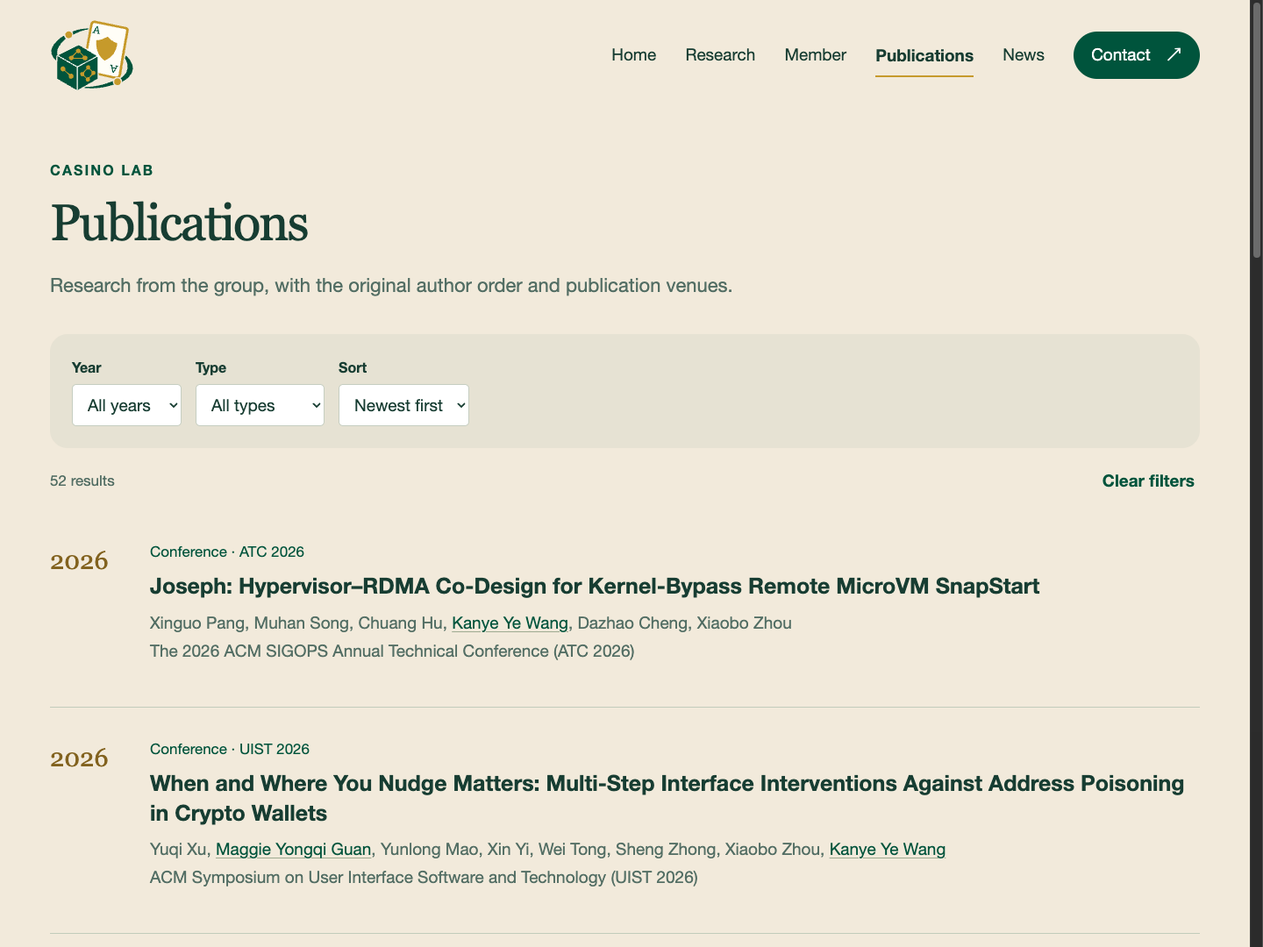
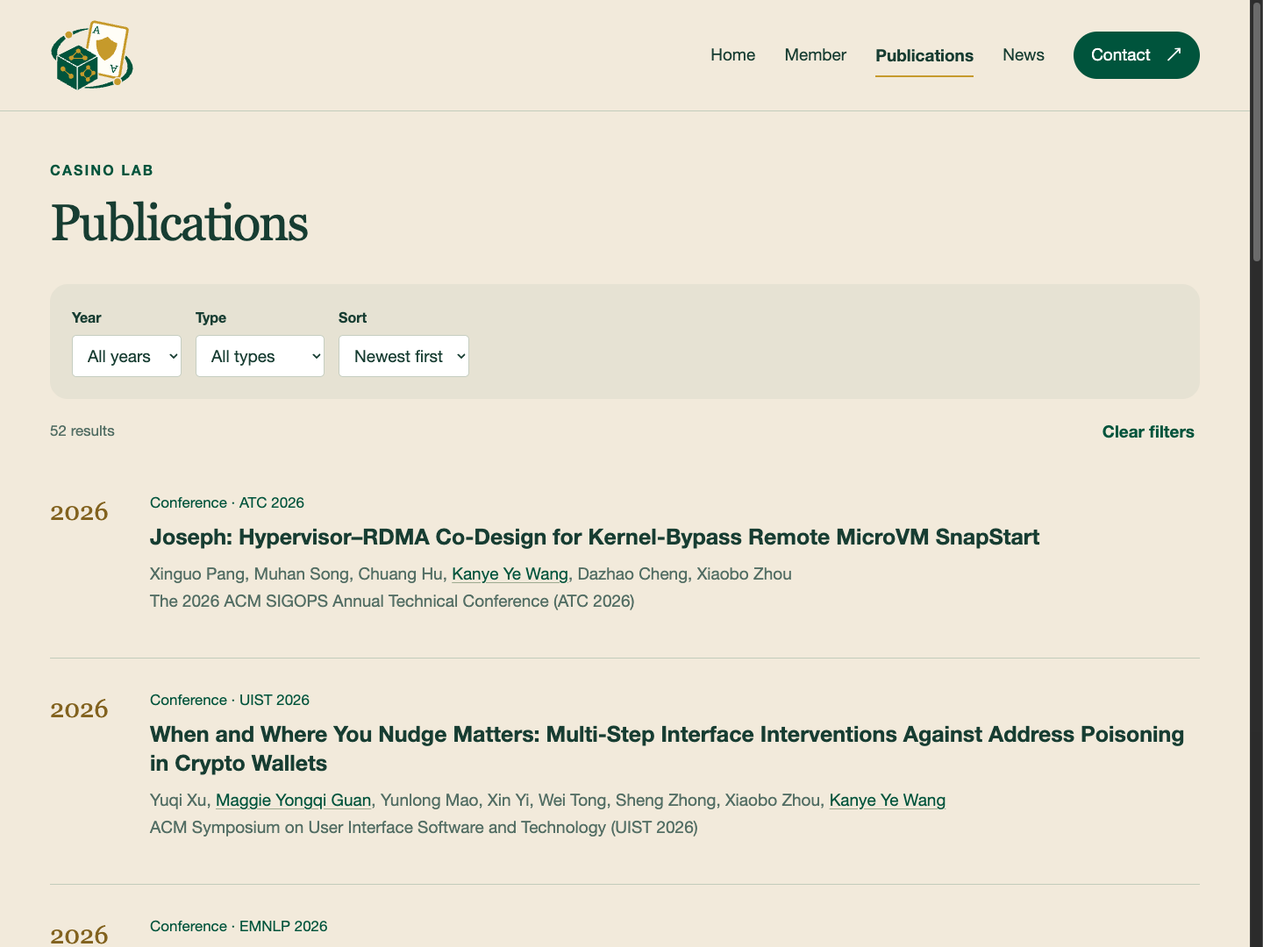
Update Site source

diff --git a/dist/lab.js b/dist/lab.js
@@ -45,8 +45,11 @@ function photo(id=data.siteSettings.heroPhotoAssetIds[0]) {
   if (!asset(id)) return '';
   return `<figure><button class="photo-button" data-photo="${esc(id)}" aria-label="View full group photo">${image(id,'group-photo',true)}</button><figcaption class="photo-caption"><span>${esc(asset(id).caption || 'Our group')}</span><button data-photo="${esc(id)}">View full photo ↗</button></figcaption></figure>`;
 }
-const researchCard = (t,i) => `<a class="research-card" href="#research/${encodeURIComponent(t.id)}"><span class="number">0${i+1}</span><h3>${esc(t.title)}</h3><p>${esc(t.summary)}</p><span class="text-link">Explore this area ↗</span></a>`;
-const authors = paper => paper.authors.map(a => a.personId && data.people.some(p=>p.id===a.personId) ? `<a class="author-link" href="#member/${encodeURIComponent(a.personId)}">${esc(a.name)}</a>` : esc(a.name)).join(', ');
+function memberLink(person, name=person.name, cls='') {
+  const url=person.id==='pi'?safeUrl(person.links[0]?.url):`#member/${encodeURIComponent(person.id)}`;
+  return url?`<a class="${cls}" href="${esc(url)}" ${url.startsWith('#')?'':'target="_blank" rel="noopener"'}>${esc(name)}</a>`:esc(name);
+}
+const authors = paper => paper.authors.map(a => {const person=data.people.find(p=>p.id===a.personId);return person?memberLink(person,a.name,'author-link'):esc(a.name);}).join(', ');
 function paperActions(p) {
   const pdf=safeUrl(p.pdfUrl || asset(p.pdfAssetId)?.url,true);
   return [p.abstract?`<button data-abstract="${esc(p.id)}">Abstract</button>`:'',p.bibtex?`<button data-citation="${esc(p.id)}">Cite / BibTeX</button>`:'',pdf?`<a href="${esc(pdf)}" target="_blank" rel="noopener">PDF ↗</a>`:'',p.doi?link('https://doi.org/'+encodeURIComponent(p.doi),'DOI'):'',link(p.projectUrl,'Project'),link(p.codeUrl,'Code'),link(p.videoUrl,'Video')].join('');
@@ -56,21 +59,14 @@ const newsRow = n => `<article class="news-row"><span class="news-date">${esc(n.
 
 function home() {
   const s=data.siteSettings;
+  const pi=data.people.find(p=>p.id==='pi');
+  const about=prose(s.aboutMarkdown || s.introduction).replace(/Kanye Ye Wang/gi,name=>pi?memberLink(pi,name):name);
   const selected=s.featuredPublicationIds.map(id=>data.publications.find(p=>p.id===id)).filter(Boolean);
   const latest=(selected.length?selected:[...data.publications].sort((a,b)=>b.year-a.year)).slice(0,3);
-  content.innerHTML=`<section class="hm-hero"><div class="hm-copy"><p class="eyebrow">${esc(s.institution)} · Research group</p><h1 class="hero-wordmark">${image(s.wordmarkAssetId,'wordmark',true)}<span class="sr-only">${esc(s.name)}</span></h1><h2 class="lab-full-name">${fullName(s.fullName)}</h2><p class="hm-summary">${esc(s.introduction)}</p><div class="hm-actions"><a href="#research">Explore our research</a><a href="#member">Meet the group ↗</a></div></div><div id="home-gallery" class="hm-gallery">${photoStack()}</div></section>
-    <section class="hm-about"><div><p class="eyebrow">ABOUT THE LAB</p><h2>Research at<br>${esc(s.institution)}</h2></div><div class="about-text">${prose(s.aboutMarkdown || s.introduction)}</div></section>
-    <section class="hm-research"><header class="hm-section-heading"><p class="eyebrow">WHAT WE WORK ON</p><h2>Research areas</h2></header><div class="hm-card-grid">${data.researchAreas.map((t,i)=>`<article class="hm-card ${i%2?'card-gold':'card-green'}"><span>0${i+1}</span><h3>${esc(t.title)}</h3><p>${esc(t.summary)}</p><a href="#research/${encodeURIComponent(t.id)}">Explore ↗</a></article>`).join('')}<article class="hm-card card-cream"><span>0${data.researchAreas.length+1}</span><h3>Work with us</h3><p>PhD study, research assistantships, and interdisciplinary collaboration.</p><a href="#contact">Opportunities ↗</a></article></div></section>
-    <section class="hm-stories"><div class="hm-stories-title"><p class="eyebrow">FROM THE LAB</p><h2>Recent publications</h2><a class="text-link" href="#publications">View all ${data.publications.length} publications ↗</a></div><div class="hm-story-list">${latest.map(p=>`<article><small>${p.year} · ${esc(p.venue.shortName || label(p.type))}</small><h3>${paperLink(p)}</h3></article>`).join('')}</div></section>
+  content.innerHTML=`<section class="hm-hero"><div class="hm-copy"><p class="eyebrow">${esc(s.institution)} · Research group</p><h1 class="hero-wordmark">${image(s.wordmarkAssetId,'wordmark',true)}<span class="sr-only">${esc(s.name)}</span></h1><h2 class="lab-full-name">${fullName(s.fullName)}</h2><p class="hm-summary">${esc(s.introduction)}</p><div class="hm-actions"><a href="#publications">Our publications</a><a href="#member">Meet the group ↗</a></div></div><div id="home-gallery" class="hm-gallery">${photoStack()}</div></section>
+    <section class="hm-about"><div><p class="eyebrow">ABOUT THE LAB</p><h2>Research at<br>${esc(s.institution)}</h2></div><div class="about-text">${about}</div></section>
+    <section class="hm-stories"><header class="hm-stories-title"><p class="eyebrow">FROM THE LAB</p><h2>Recent publications</h2></header><div class="hm-story-list">${latest.map(p=>`<article><small>${p.year} · ${esc(p.venue.shortName || label(p.type))}</small><h3>${paperLink(p)}</h3></article>`).join('')}</div><a class="text-link" href="#publications">View all ${data.publications.length} publications ↗</a></section>
     <section class="hm-join-section"><h2>Contact</h2><p>Get in touch about our research, collaboration, and opportunities.</p><a class="button" href="#contact">Contact the lab ↗</a></section>`;
-}
-
-function research(id) {
-  const t=data.researchAreas.find(t=>t.id===id || t.slug===id);
-  if(id&&!t)return notFound();
-  if(!t){content.innerHTML=heading('Research','Information security, human–computer interaction, and interdisciplinary collaboration.')+`<div class="research-grid bottom-space">${data.researchAreas.map(researchCard).join('')}</div>`;return;}
-  const related=data.publications.filter(p=>p.researchAreaIds.includes(t.id));
-  content.innerHTML=`<a class="breadcrumb" href="#research">← Research areas</a>${heading(t.title,t.summary,'RESEARCH')}<div class="topic-layout"><section><div class="prose">${prose(t.bodyMarkdown)}</div>${t.questions.length?`<h2>Research questions</h2><ul>${t.questions.map(q=>`<li>${esc(q)}</li>`).join('')}</ul>`:''}<div class="tag-row">${t.tags.map(tag=>`<span class="tag">${esc(tag)}</span>`).join('')}</div></section><aside><h2>Explore our work</h2><p>Read the group’s publications and meet our researchers.</p><a class="button secondary" href="#publications${related.length?'?topic='+encodeURIComponent(t.id):''}">${related.length?'Related publications':'Publication archive'} ↗</a><p><a class="text-link" href="#member?area=${encodeURIComponent(t.id)}">Meet the researchers ↗</a></p></aside></div>`;
 }
 
 function people(id, params) {
@@ -81,12 +77,12 @@ function people(id, params) {
   }
   const area=params.get('area')||'';
   const roles=[...new Set(data.people.flatMap(p=>p.memberships.filter(m=>m.isCurrent).map(m=>m.role)))];
-  content.innerHTML=heading('Member','Meet the researchers behind CASINO.')+`<div class="chips" id="people-chips" aria-label="Filter members"><button class="chip" data-role="all" aria-pressed="true">All</button>${roles.map(r=>`<button class="chip" data-role="${r}" aria-pressed="false">${esc(label(r))}</button>`).join('')}<button class="chip" data-role="alumni" aria-pressed="false">Alumni</button></div>${area?`<p class="source-note">Research area: ${esc(data.researchAreas.find(a=>a.id===area)?.title||area)} · <a href="#member">Show everyone</a></p>`:''}<p class="results-line" id="people-count" aria-live="polite"></p><div class="people-grid" id="people-results"></div>`;
+  content.innerHTML=heading('Member')+`<div class="chips" id="people-chips" aria-label="Filter members"><button class="chip" data-role="all" aria-pressed="true">All</button>${roles.map(r=>`<button class="chip" data-role="${r}" aria-pressed="false">${esc(label(r))}</button>`).join('')}<button class="chip" data-role="alumni" aria-pressed="false">Alumni</button></div>${area?`<p class="source-note">Research area: ${esc(data.researchAreas.find(a=>a.id===area)?.title||area)} · <a href="#member">Show everyone</a></p>`:''}<p class="results-line" id="people-count" aria-live="polite"></p><div class="people-grid" id="people-results"></div>`;
   let role='all';
   const update=()=>{
     const visible=data.people.filter(p=>(!area||p.researchAreaIds.includes(area))&&(role==='all'||(role==='alumni'?!isCurrent(p):p.memberships.some(m=>m.role===role&&m.isCurrent))));
     document.querySelector('#people-count').textContent=`${visible.length} members`;
-    document.querySelector('#people-results').innerHTML=visible.length?visible.map(p=>`<article class="person"><div class="avatar">${image(p.portraitAssetId)}</div><span class="news-type">${esc(isCurrent(p)?p.title:'Alumni')}</span><h3><a href="#member/${encodeURIComponent(p.id)}">${esc(p.name)}</a></h3></article>`).join(''):'<div class="empty"><h3>No members in this category</h3></div>';
+    document.querySelector('#people-results').innerHTML=visible.length?visible.map(p=>`<article class="person"><div class="avatar">${image(p.portraitAssetId)}</div><span class="news-type">${esc(isCurrent(p)?p.title:'Alumni')}</span><h3>${memberLink(p)}</h3></article>`).join(''):'<div class="empty"><h3>No members in this category</h3></div>';
   };
   document.querySelector('#people-chips').addEventListener('click',e=>{const b=e.target.closest('[data-role]');if(!b)return;role=b.dataset.role;document.querySelectorAll('[data-role]').forEach(c=>c.setAttribute('aria-pressed',String(c===b)));update();});update();
 }
@@ -100,7 +96,7 @@ function publications(id, params) {
   const types=[...new Set(data.publications.map(p=>p.type))];
   const taggedAreas=data.researchAreas.filter(t=>data.publications.some(p=>p.researchAreaIds.includes(t.id)));
   let topic=params.get('topic')||'',personId=params.get('personId')||'',page=1;
-  content.innerHTML=heading('Publications','Research from the group, with the original author order and publication venues.')+`<div class="toolbar"><label class="field">Year<select id="paper-year"><option value="">All years</option>${years.map(y=>`<option>${y}</option>`).join('')}</select></label><label class="field">Type<select id="paper-type"><option value="">All types</option>${types.map(t=>`<option value="${t}">${esc(label(t))}</option>`).join('')}</select></label><label class="field">Sort<select id="paper-sort"><option value="new">Newest first</option><option value="old">Oldest first</option></select></label></div>${taggedAreas.length?`<div class="chips" id="paper-topics"><button class="chip" data-topic="" aria-pressed="true">All areas</button>${taggedAreas.map(t=>`<button class="chip" data-topic="${esc(t.id)}" aria-pressed="false">${esc(t.title)}</button>`).join('')}</div>`:''}<div class="results-line"><span id="paper-count" aria-live="polite"></span><button class="text-link" id="clear-filters">Clear filters</button></div><div id="paper-results"></div><div class="pagination" id="pagination"></div>${data.siteSettings.publicationArchiveUrl?`<p class="source-note">Before 2023: ${link(data.siteSettings.publicationArchiveUrl,'Earlier publication archive')}</p>`:''}`;
+  content.innerHTML=heading('Publications')+`<div class="toolbar"><label class="field">Year<select id="paper-year"><option value="">All years</option>${years.map(y=>`<option>${y}</option>`).join('')}</select></label><label class="field">Type<select id="paper-type"><option value="">All types</option>${types.map(t=>`<option value="${t}">${esc(label(t))}</option>`).join('')}</select></label><label class="field">Sort<select id="paper-sort"><option value="new">Newest first</option><option value="old">Oldest first</option></select></label></div>${taggedAreas.length?`<div class="chips" id="paper-topics"><button class="chip" data-topic="" aria-pressed="true">All areas</button>${taggedAreas.map(t=>`<button class="chip" data-topic="${esc(t.id)}" aria-pressed="false">${esc(t.title)}</button>`).join('')}</div>`:''}<div class="results-line"><span id="paper-count" aria-live="polite"></span><button class="text-link" id="clear-filters">Clear filters</button></div><div id="paper-results"></div><div class="pagination" id="pagination"></div>${data.siteSettings.publicationArchiveUrl?`<p class="source-note">Before 2023: ${link(data.siteSettings.publicationArchiveUrl,'Earlier publication archive')}</p>`:''}`;
   for(const [param,field] of [['year','paper-year'],['type','paper-type'],['sort','paper-sort']])if(params.has(param))document.getElementById(field).value=params.get(param);
   const update=()=>{
     const year=document.querySelector('#paper-year').value,type=document.querySelector('#paper-type').value,sort=document.querySelector('#paper-sort').value;
@@ -131,9 +127,8 @@ function emailLink(value) {
 }
 function join() {
   const s=data.siteSettings,opportunities=data.opportunities.filter(o=>o.availability==='open'&&(!o.deadlineAt||Date.parse(o.deadlineAt)>=Date.now()));
-  const checklist=[...new Set(opportunities.flatMap(o=>o.applicationChecklist))];
-  content.innerHTML=heading('Contact','Research enquiries, collaboration, and PhD opportunities.')+`<div class="join-grid"><section><h2>Application information</h2>${opportunities.map((o,i)=>`<details ${i===0?'open':''}><summary>${esc(o.title)}</summary>${prose(o.bodyMarkdown)}${o.requirements.length?`<ul class="requirements">${o.requirements.map(r=>`<li>${esc(r)}</li>`).join('')}</ul>`:''}${link(o.applicationUrl,'Apply')}${link(o.guidanceUrl,'Original guidance')}</details>`).join('')}${s.recruitmentMarkdown?`<details><summary>Timeline, program &amp; funding</summary>${prose(s.recruitmentMarkdown)}</details>`:''}${checklist.length?`<section class="section"><h2>Prepare your enquiry</h2><ul class="checklist">${checklist.map(c=>`<li><label><input type="checkbox">${esc(c)}</label></li>`).join('')}</ul><p class="check-count" id="check-count" aria-live="polite">0 of ${checklist.length} items reviewed</p></section>`:''}</section><aside><p class="eyebrow">GET IN TOUCH</p><h2>${esc(data.people.find(p=>p.memberships.some(m=>m.role==='faculty'))?.name||s.name)}</h2><p>${esc(s.institution)}</p>${emailLink(s.publicEmail)}<div class="join-actions"><button class="button secondary" id="copy-email">Copy email</button></div><p id="email-status" class="dialog-status" role="status"></p><div class="profile-links">${s.links.map(l=>link(l.url,l.label)).join('')}</div></aside></div>`;
-  document.querySelectorAll('.checklist input').forEach(input=>input.addEventListener('change',()=>{document.querySelector('#check-count').textContent=`${document.querySelectorAll('.checklist input:checked').length} of ${checklist.length} items reviewed`;}));
+  const pi=data.people.find(p=>p.id==='pi');
+  content.innerHTML=heading('Contact','Research enquiries, collaboration, and PhD opportunities.')+`<div class="join-grid"><section><h2>Application information</h2>${opportunities.map((o,i)=>`<details ${i===0?'open':''}><summary>${esc(o.title)}</summary>${prose(o.bodyMarkdown)}${o.requirements.length?`<ul class="requirements">${o.requirements.map(r=>`<li>${esc(r)}</li>`).join('')}</ul>`:''}${o.applicationChecklist.length?`<p>Application materials</p><ul class="application-materials">${o.applicationChecklist.map(c=>`<li>${esc(c)}</li>`).join('')}</ul>`:''}${link(o.applicationUrl,'Apply')}${link(o.guidanceUrl,'Original guidance')}</details>`).join('')}${s.recruitmentMarkdown?`<details><summary>Timeline, program &amp; funding</summary>${prose(s.recruitmentMarkdown)}</details>`:''}</section><aside><p class="eyebrow">GET IN TOUCH</p><h2>${pi?memberLink(pi):esc(s.name)}</h2><p>${esc(s.institution)}</p>${emailLink(s.publicEmail)}<div class="join-actions"><button class="button secondary" id="copy-email">Copy email</button></div><p id="email-status" class="dialog-status" role="status"></p><div class="profile-links">${s.links.map(l=>link(l.url,l.label)).join('')}</div></aside></div>`;
   document.querySelector('#copy-email').addEventListener('click',async()=>{try{await navigator.clipboard.writeText(s.publicEmail);document.querySelector('#email-status').textContent='Email address copied.';}catch{document.querySelector('#email-status').textContent='Select the email address above to copy it.';}});
 }
 
@@ -161,7 +156,7 @@ function route(){
   const page=({people:'member',join:'contact'})[rawPage]||rawPage;
   let id;try{id=rawId?decodeURIComponent(rawId):undefined;}catch{return notFound();}
   const params=new URLSearchParams(query);content.className=page==='home'?'home-main':'wrap';
-  if(page==='home')home();else if(page==='member')people(id,params);else if(page==='contact')join();else if(page==='research')research(id);else if(page==='publications')publications(id,params);else if(page==='news')newsPage(id);else notFound();
+  if(page==='home')home();else if(page==='member')people(id,params);else if(page==='contact')join();else if(page==='publications')publications(id,params);else if(page==='news')newsPage(id);else notFound();
   document.querySelectorAll('#navigation a').forEach(a=>{if(a.hash===`#${page}`)a.setAttribute('aria-current','page');else a.removeAttribute('aria-current');});
   document.querySelector('#navigation').classList.remove('open');document.querySelector('#menu-toggle').setAttribute('aria-expanded','false');
   document.title=`${content.querySelector('h1')?.textContent||'CASINO'} · CASINO Lab`;window.scrollTo(0,0);

diff --git a/dist/lab.html b/dist/lab.html
@@ -18,12 +18,12 @@
       <a class="brand" href="#home" aria-label="CASINO Lab home"><img src="./assets/casino-symbol.svg" alt="CASINO emblem" width="96" height="84"></a>
       <button id="menu-toggle" class="menu-toggle" aria-expanded="false" aria-controls="navigation">Menu <span aria-hidden="true">☰</span></button>
       <nav id="navigation" aria-label="Main navigation">
-        <a href="#home">Home</a><a href="#research">Research</a><a href="#member">Member</a><a href="#publications">Publications</a><a href="#news">News</a><a class="join-link" href="#contact">Contact <span aria-hidden="true">↗</span></a>
+        <a href="#home">Home</a><a href="#member">Member</a><a href="#publications">Publications</a><a href="#news">News</a><a class="join-link" href="#contact">Contact <span aria-hidden="true">↗</span></a>
       </nav>
     </div>
   </header>
   <main id="content" class="wrap" tabindex="-1"><p class="loading" role="status">Loading the lab…</p></main>
-  <footer class="site-footer"><div class="wrap footer-top"><div><a href="#home" aria-label="CASINO Lab home"><img class="footer-wordmark" src="./assets/casino-wordmark.svg" alt="CASINO" width="240" height="47"></a><p>Collaborative Security and Interaction Group<br>University of Macau</p></div></div><div class="wrap footer-bottom"><span>CASINO · University of Macau</span></div></footer>
+  <footer class="site-footer"><div class="wrap footer-top"><div><a href="#home" aria-label="CASINO Lab home"><img class="footer-wordmark" src="./assets/casino-wordmark.svg" alt="CASINO" width="240" height="47"></a><p>Collaborative Security and Interaction Group<br>University of Macau</p></div></div><div class="wrap footer-bottom"><span>CASINO@UMAC</span></div></footer>
   <dialog id="detail-dialog" aria-labelledby="dialog-title"><button class="dialog-close" aria-label="Close dialog">×</button><div id="dialog-body"></div></dialog>
   <div id="announcement" class="sr-only" role="status" aria-live="polite"></div>
 </body>

diff --git a/dist/gold.css b/dist/gold.css
@@ -16,3 +16,6 @@ body{font-size:20px;line-height:1.65}.wrap{width:92%;max-width:1440px}p{font-siz
 @media(max-width:900px){.header-inner{grid-template-columns:100px 1fr}.brand{grid-column:1;grid-row:1}.menu-toggle{grid-column:2;grid-row:1;justify-self:end}#navigation{grid-column:1/-1;grid-row:2;justify-content:start}.hm-gallery{padding-top:15px}.photo-stack{max-width:760px;margin-inline:auto}.hero-wordmark .wordmark{max-width:520px}}
 @media(max-width:600px){.header-inner{grid-template-columns:90px 1fr}.brand img{width:82px;height:76px}.hero-wordmark .wordmark{max-width:380px}.hm-copy h2.lab-full-name{font-size:29px}.stack-sheet{inset:20px 25px 15px 10px;padding:7px;border-radius:18px}.stack-photo{border-radius:12px}.gallery-controls{padding:5px 7px;gap:10px}.gallery-controls button{font-size:16px}.gallery-controls [data-gallery-step]{width:38px;height:38px}.gallery-count{font-size:15px}.footer-wordmark{width:210px}.person{grid-template-rows:auto 1fr}.person .avatar{grid-row:1/3}.person h3{margin-top:10px}.hm-hero{gap:20px}}
 @media(prefers-reduced-motion:reduce){.stack-sheet{transition:none}}
+
+/* Compact homepage layout and persistent navigation. */
+html{scroll-padding-top:140px}.site-header{position:sticky;top:0;z-index:40;box-shadow:0 1px 0 var(--line)}#navigation .join-link[aria-current=page]::after{content:none}.hm-hero{align-items:start}.acronym-letter{text-decoration:none}.stack-sheet{transform:translate(calc(var(--depth)*5px),calc(var(--depth)*-7px)) rotate(calc(var(--depth)*1deg - .5deg))}.hm-stories{display:block}.hm-stories>.text-link{display:inline-block;margin-top:26px}.hm-story-list h3 a{font-size:inherit}.hm-about .about-text a{color:inherit;text-decoration:underline;text-underline-offset:4px}.application-materials{margin:12px 0 22px}.application-materials li{margin:6px 0}

diff --git a/scripts/migrate-crab.py b/scripts/migrate-crab.py
@@ -174,13 +174,13 @@ page('/info')  # Preserve the checked recruitment source alongside the other HTM
 opportunities = []
 for id,title,summary,body,requirements in [
     ('um-students','University of Macau students','RA experience before PhD admission.',
-     'Students interested in pursuing a PhD with the principal investigator are required to first apply for a Research Assistant position.\n\nA minimum of one year of research collaboration, such as RA work and thesis supervision, is required before formal PhD admission.\n\nSend your CV and UM transcript directly by email.',
+     'Students interested in pursuing a PhD with the principal investigator are required to first apply for a Research Assistant position.\n\nA minimum of one year of research collaboration, such as RA work and thesis supervision, is required before formal PhD admission.\n\nSend your application materials directly by email.',
      ['An A grade in at least one course taught by the principal investigator, or an overall UM GPA of at least 3.7.','Strong commitment and dedication to research.']),
     ('external-students','Applicants from other institutions','Direct PhD admission through an advisor recommendation.',
      'External candidates are not recruited for RA positions. In principle, external PhD applicants are not accepted; exceptions may be considered when recommended by their advisor.\n\nA short-term collaborative research project may be required to assess compatibility with the group.',
      ['Recommendation from your advisor.','Strong research potential and commitment.'])]:
     opportunities.append(dict(**base(id,BASE+'/info'),title=title,kind='phd',availability='open',summary=summary,bodyMarkdown=body,
-        requirements=requirements,applicationChecklist=['CV','Academic transcript','Research interests and proposed collaboration'],
+        requirements=requirements,applicationChecklist=['CV','UM transcript'] if id=='um-students' else ['CV','Academic transcript','Research interests and proposed collaboration'],
         deadlineAt=None,contactEmail='yewang.ethz@gmail.com',applicationUrl=None,guidanceUrl=BASE+'/info',researchAreaIds=['security','hci'],sortOrder=len(opportunities)))
 recruitment = 'Application timeline\nFall intake: apply by mid-March. Spring intake: apply by the end of July of the previous year. Confirm the current university deadlines before applying. Contact the principal investigator before applying through the university system.\n\nProgram structure\nExpected duration: four years, including a qualifying exam at the end of the first year.\n\nFunding\nThe lab’s published guidance lists a monthly stipend of MOP 12,500–20,000. Each advisor may nominate one student per year for the MOP 20,000 scholarship; the guidance reports that fewer than 5% receive this top-tier scholarship. Check the current call for eligibility and funding details.'
 dataset = dict(schemaVersion='1.0',assets=assets,people=members,researchAreas=areas,publications=publications,news=[],opportunities=opportunities,

diff --git a/SITE-FUNCTIONS.md b/SITE-FUNCTIONS.md
@@ -4,14 +4,13 @@ The selected third direction opens `dist/lab.html`, with its original warm-paper
 
 | Page | Implemented interactions |
 | --- | --- |
-| Home | Four original photos in a stacked album; previous/next controls, full-image dialog, highlighted CASINO letters in the full name |
-| Research | Two source research areas and related content links |
+| Home | Four photos with subtle stacking angles; top-aligned wordmark and full name; recent papers below their heading; PI name links to his personal website |
 | Member | 12 real profiles and portraits; role/alumni filters; clickable names; personal pages directly list papers; no directory interests or profile buttons |
 | Publications | 52 records; year/type filters, chronological sorting, pagination; titles open Paper.pageUrl; optional abstract/BibTeX/PDF controls appear only when supplied |
 | News | JSON-backed story pages and a group photo; the source has no dated news records |
-| Contact | Applicant-specific accordions, preparation checklist, email link/copy and full recruitment guidance |
+| Contact | Applicant-specific accordions, source application materials as bullet lists, email link/copy and recruitment guidance |
 
-Shared: mobile menu, active navigation, hash deep links, browser Back/Forward, keyboard focus and Escape dismissal for dialogs. Every page has the vector emblem in its header. Main text is 20–22px. Layout uses the original third direction's rounded cards and green/gold sections.
+Shared: sticky navigation, mobile menu, hash deep links, browser Back/Forward, keyboard focus and Escape dismissal for dialogs. Contact has no active-state underline. Every page has the vector emblem in its header; the bottom footer reads CASINO@UMAC. Main text is 20–22px. Layout uses the original third direction's rounded cards and green/gold sections. The Research page and homepage research-area section have been removed; research metadata remains available in JSON.
 
 ## Content to supply
 
@@ -19,7 +18,7 @@ Shared: mobile menu, active navigation, hash deep links, browser Back/Forward, k
 - New event/news entries and future member updates. Review the source email discrepancies in `CONTENT-MIGRATION.md`.
 - Verified external paper-page URLs can replace the working internal pageUrl links.
 
-Content lives in `dist/data/lab.json`; images use local paths in its assets collection. Each record becomes a Member or Paper instance from `dist/models.js`. Search boxes and the footer link collection have been removed. No CMS, database or submission backend has been added. Application checkboxes are local to the current view; email links open the visitor's mail client. See `CONTENT-MIGRATION.md` for source coverage and content-editing instructions.
+Content lives in `dist/data/lab.json`; images use local paths in its assets collection. Each record becomes a Member or Paper instance from `dist/models.js`. Search boxes and the footer link collection have been removed. No CMS, database or submission backend has been added. Email links open the visitor's mail client. See `CONTENT-MIGRATION.md` for source coverage and content-editing instructions.
 
 ## Verified sources
 
@@ -29,4 +28,4 @@ Content lives in `dist/data/lab.json`; images use local paths in its assets coll
 
 ## Browser checks
 
-`node qa-lab.mjs` checks port 4173 using Chrome debugging port 9224. It covers desktop/mobile routes, JSON loading, portraits, combined filters, pagination, inline member papers, photo switching and dialog focus, browser Back, the checklist, mobile navigation and legacy URLs. Screenshots are saved under `previews/gold-json/`.
+`node qa-lab.mjs` checks port 4173 using Chrome debugging port 9224. It covers desktop/mobile routes, sticky navigation, homepage alignment, portraits, filters, pagination, inline papers, PI links, photo switching, dialogs, scoped materials lists and legacy URLs. Screenshots are saved under `previews/gold-json/`.

diff --git a/contracts/README.md b/contracts/README.md
@@ -1,6 +1,6 @@
 # CASINO 数据与接口约定 v1
 
-字段名与网站内容使用英文。此方案适用于现有 Home、Research、Member、Publications、News、Contact 页面，后端框架和数据库可自行选择。
+字段名与网站内容使用英文。此方案适用于现有 Home、Member、Publications、News、Contact 页面，后端框架和数据库可自行选择。Research 页面已移除，researchAreas 数据继续保留为内容元数据。
 
 交付：`models.ts` 是完整字段定义；`example.ts` 是经过类型检查的示例源文件；`example.json` 可直接供后端或 Mock 服务使用。示例成员、论文、活动与招聘均为演示数据，状态为 draft。当前网站已改为读取 `dist/data/lab.json`，其中是从旧站迁移的公开内容，图片通过 `assets[].url` 的本地路径读取。
 
@@ -55,6 +55,8 @@ SiteSettings ──→ Asset / Publication
 `pageUrl` 是下述链接规则的特例：额外允许已存在的站内 `#publications/{id}`。页面已移除全部搜索框；下文 API 的 q 参数为后端预留，并不对应当前页面搜索功能。
 
 `siteSettings.logoAssetId` 指向左上角纯图形 Logo；`wordmarkAssetId` 指向首页标题和页脚的文字版 Logo；`heroPhotoAssetIds` 为首页堆叠相册的有序图片 ID 列表。图片路径来自 `assets[].url`，当前为从旧站下载的四张原始照片。Member 目录不显示研究兴趣；个人主页保留兴趣并直接列出论文。
+
+Opportunity.applicationChecklist 保留现有字段名，但前端按各申请类别显示普通材料列表，不提供复选框或进度计数。UM 学生需要 CV 和 UM transcript；外校申请人需要 CV、academic transcript、research interests and proposed collaboration，均来自旧站申请说明。
 
 `id` 为服务端生成的不可变 ID（建议 UUID），示例使用可读 ID。`slug` 是可读 URL 标识，在每个实体集合内唯一，只用小写英文、数字及连字符。外键始终引用 id，不引用 slug。修改 slug 时为原地址维护跳转。
 

diff --git a/CONTENT-MIGRATION.md b/CONTENT-MIGRATION.md
@@ -54,6 +54,6 @@ node scripts/check-live-data.mjs
 node qa-lab.mjs
 ```
 
-The data check validates TypeScript types, record counts, public visibility, relationships, Member/Paper instances, paper page links and local image files. Browser QA uses port 4173 and Chrome debugging port 9224; it checks desktop/mobile routes, portraits, filters, pagination, inline member papers, four-photo switching, dialogs, keyboard focus, checklists and legacy routes. Screenshots go to `previews/gold-json/`. `scripts/import-group-photos.py` downloads the old homepage's four original carousel images; JSON photo order is maintained separately.
+The data check validates TypeScript types, record counts, public visibility, relationships, Member/Paper instances, paper page links and local image files. Browser QA uses port 4173 and Chrome debugging port 9224; it checks desktop/mobile routes, portraits, filters, pagination, inline member papers, four-photo switching, dialogs, sticky navigation, scoped materials lists and legacy routes. Screenshots go to `previews/gold-json/`. `scripts/import-group-photos.py` downloads the old homepage's four original carousel images; JSON photo order is maintained separately.
 
 `scripts/migrate-crab.py` reproduces the initial migration using BeautifulSoup and a source cache under `/tmp/casino-crab-import-20261104`. Running it replaces `dist/data/lab.json` and imported portraits: use it only before manual content edits, or review its output in a separate checkout. The cache freezes this migration's source snapshot; re-importing new website changes requires deliberately refreshing that cache and reviewing source differences.
